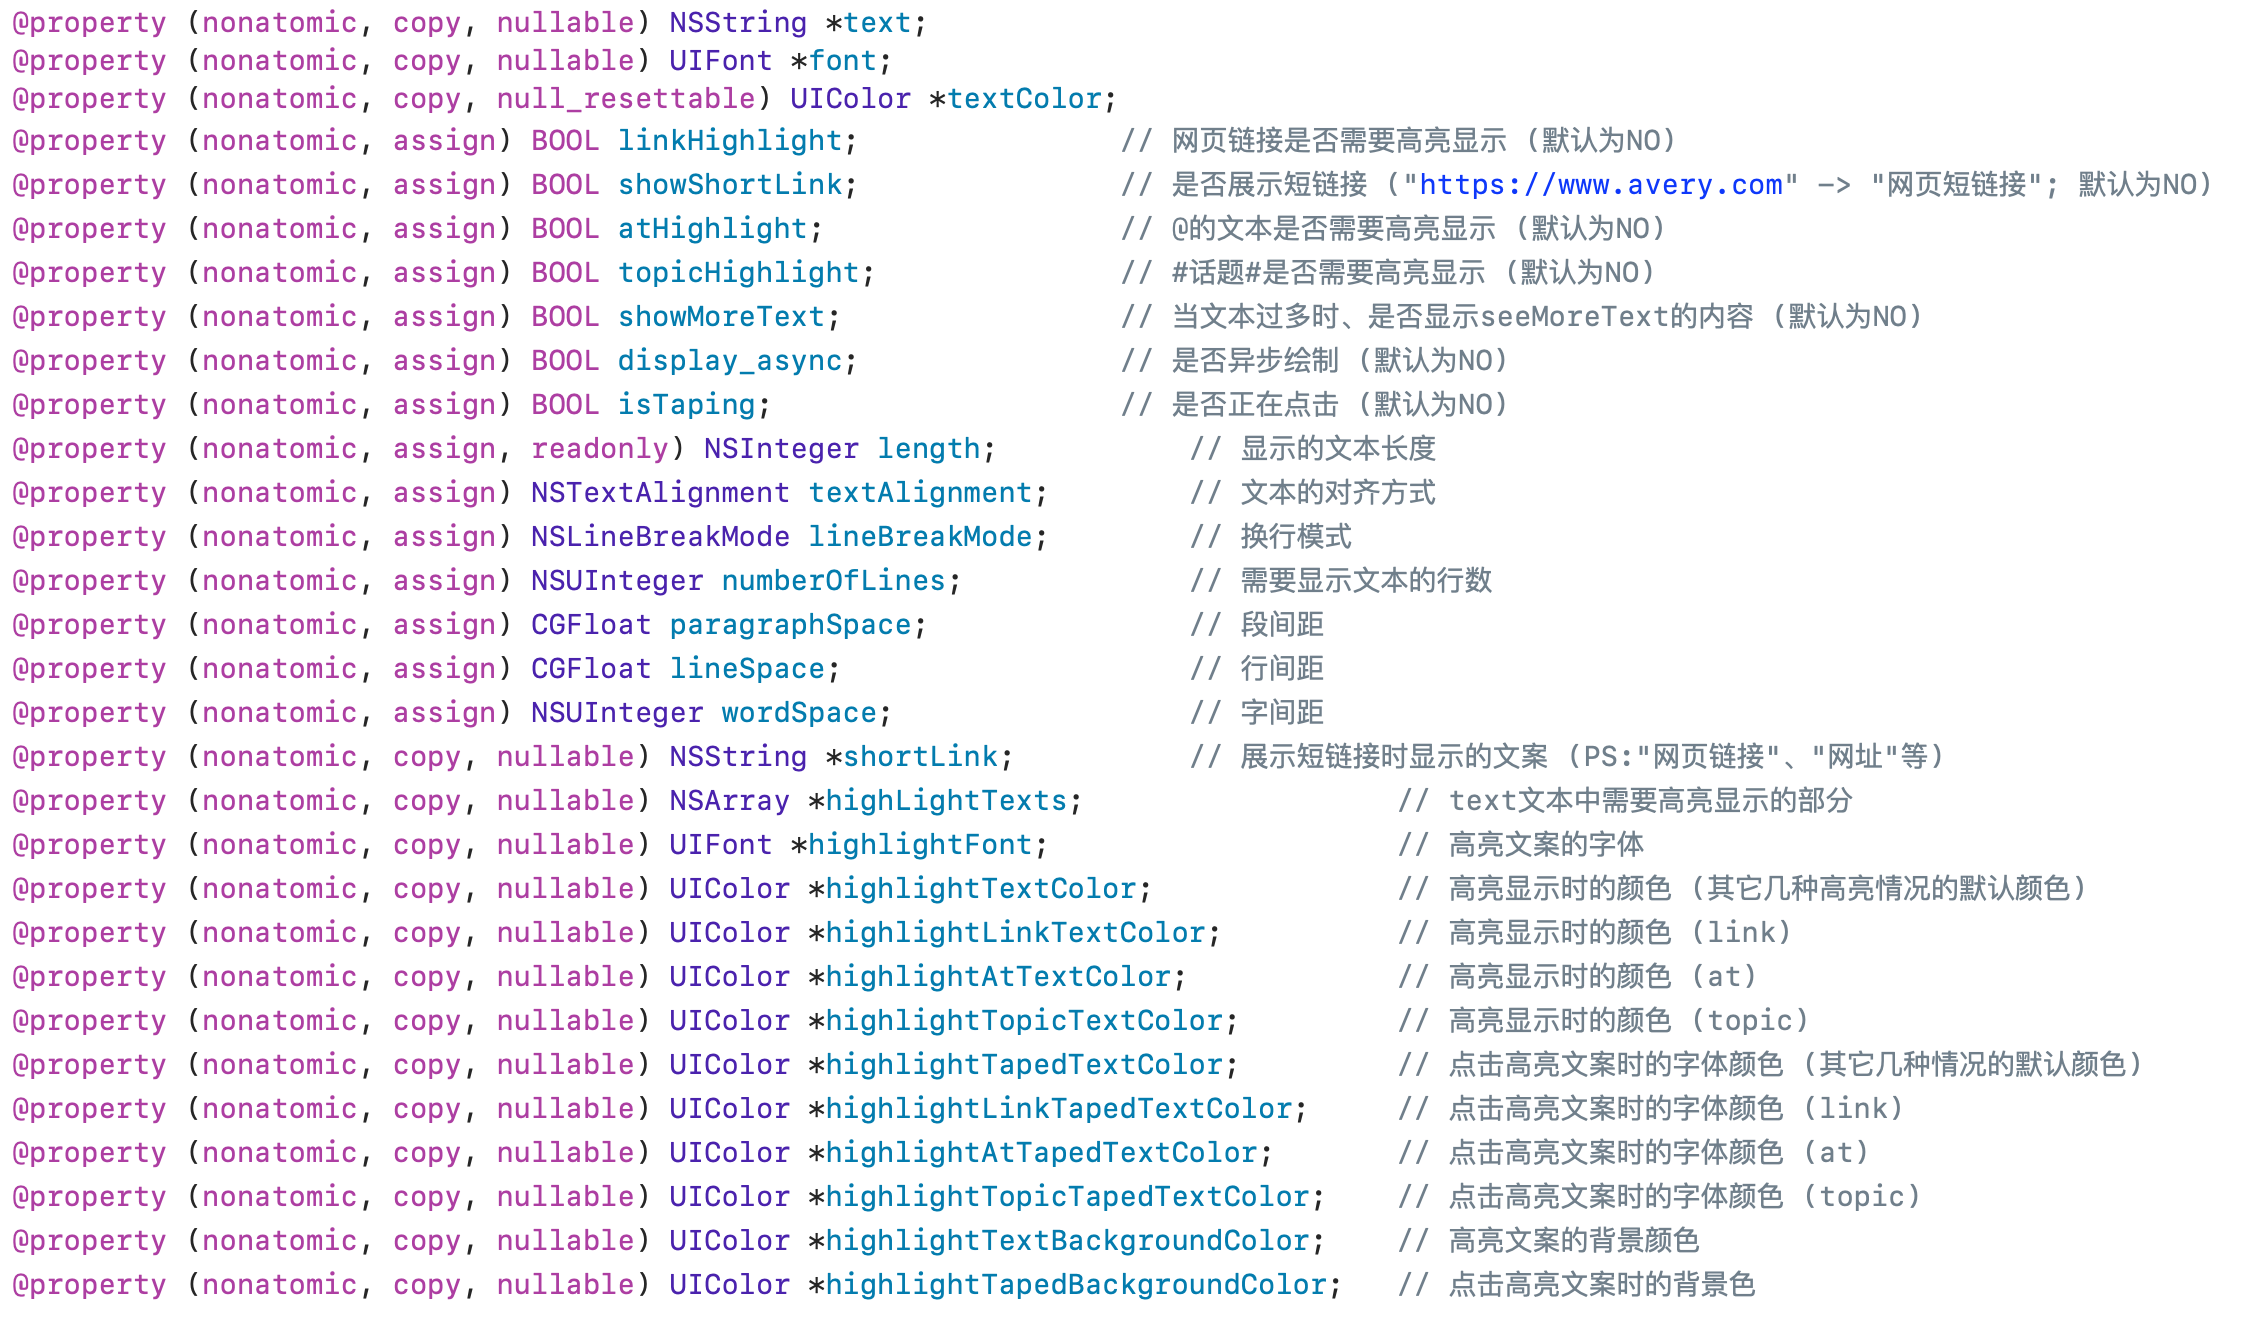
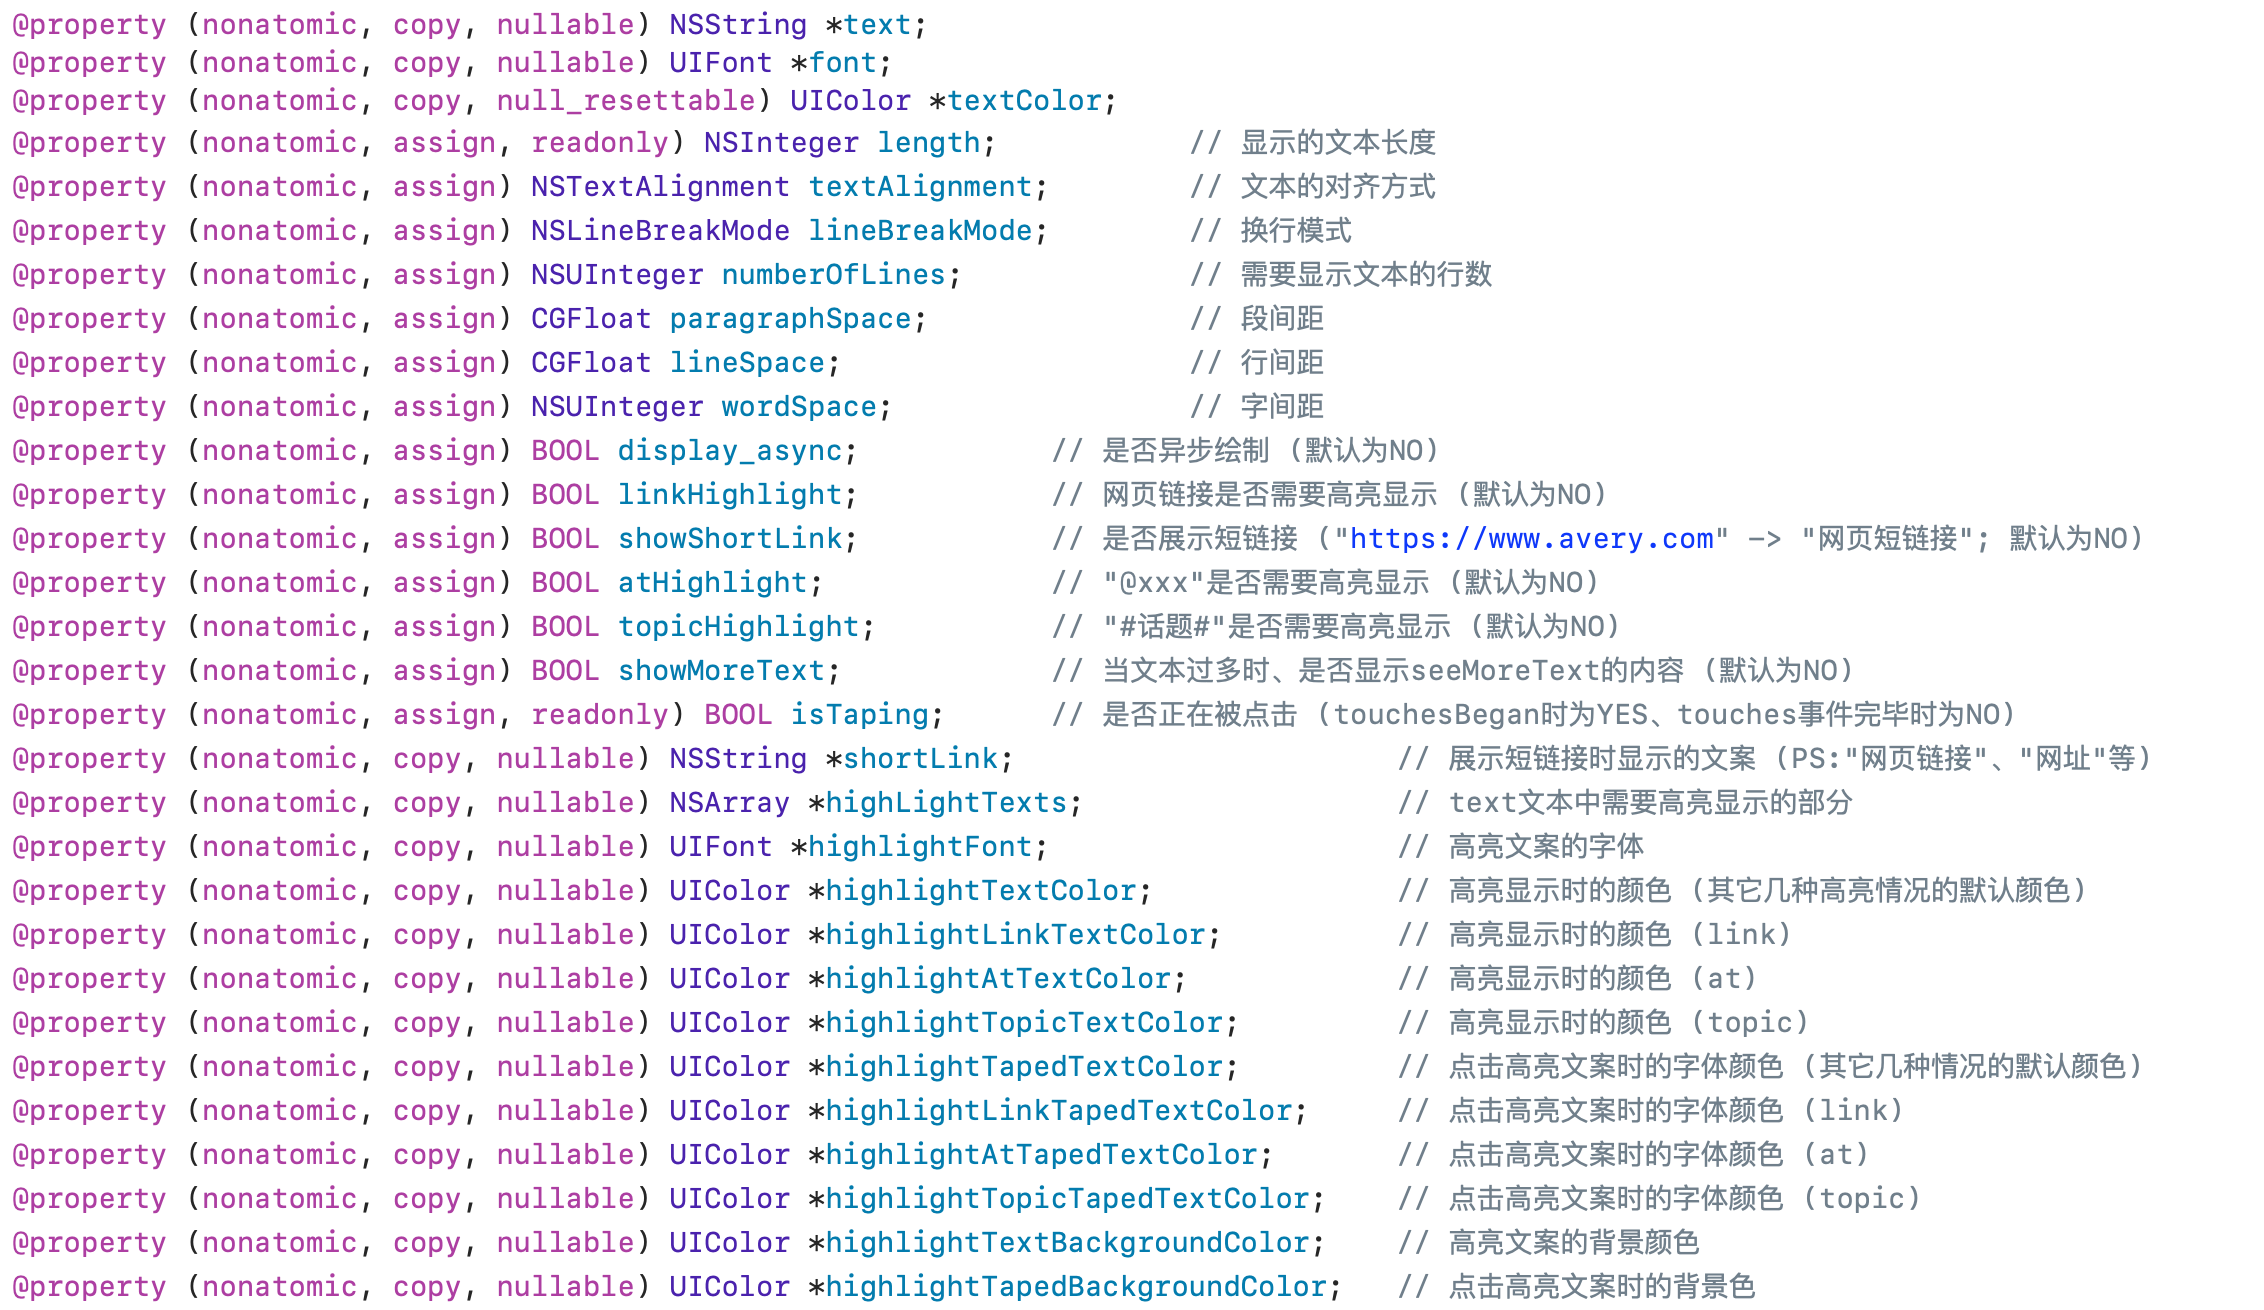
update demo3 png

Changed region(s): [[0.0, 0.0, 0.961, 1.0], [0.837, 0.1221, 0.992, 0.1527]]

diff --git a/CoreText/QAAttributedLabel/QAAttributedLabel.h b/CoreText/QAAttributedLabel/QAAttributedLabel.h
@@ -29,13 +29,6 @@ typedef NS_ENUM(NSUInteger, QAAttributedLabel_TapedStyle) {
 @property (nonatomic, copy, nullable) NSString *text;
 @property (nonatomic, copy, nullable) UIFont *font;
 @property (nonatomic, copy, null_resettable) UIColor *textColor;
-@property (nonatomic, assign) BOOL linkHighlight;               // 网页链接是否需要高亮显示 (默认为NO)
-@property (nonatomic, assign) BOOL showShortLink;               // 是否展示短链接 ("https://www.avery.com" -> "网页短链接"; 默认为NO)
-@property (nonatomic, assign) BOOL atHighlight;                 // @的文本是否需要高亮显示 (默认为NO)
-@property (nonatomic, assign) BOOL topicHighlight;              // #话题#是否需要高亮显示 (默认为NO)
-@property (nonatomic, assign) BOOL showMoreText;                // 当文本过多时、是否显示seeMoreText的内容 (默认为NO)
-@property (nonatomic, assign) BOOL display_async;               // 是否异步绘制 (默认为NO)
-@property (nonatomic, assign) BOOL isTaping;                    // 是否正在点击 (默认为NO)
 @property (nonatomic, assign, readonly) NSInteger length;           // 显示的文本长度
 @property (nonatomic, assign) NSTextAlignment textAlignment;        // 文本的对齐方式
 @property (nonatomic, assign) NSLineBreakMode lineBreakMode;        // 换行模式
@@ -43,7 +36,14 @@ typedef NS_ENUM(NSUInteger, QAAttributedLabel_TapedStyle) {
 @property (nonatomic, assign) CGFloat paragraphSpace;               // 段间距
 @property (nonatomic, assign) CGFloat lineSpace;                    // 行间距
 @property (nonatomic, assign) NSUInteger wordSpace;                 // 字间距
-@property (nonatomic, copy, nullable) NSString *shortLink;          // 展示短链接时显示的文案 (PS:"网页链接"、"网址"等)
+@property (nonatomic, assign) BOOL display_async;           // 是否异步绘制 (默认为NO)
+@property (nonatomic, assign) BOOL linkHighlight;           // 网页链接是否需要高亮显示 (默认为NO)
+@property (nonatomic, assign) BOOL showShortLink;           // 是否展示短链接 ("https://www.avery.com" -> "网页短链接"; 默认为NO)
+@property (nonatomic, assign) BOOL atHighlight;             // "@xxx"是否需要高亮显示 (默认为NO)
+@property (nonatomic, assign) BOOL topicHighlight;          // "#话题#"是否需要高亮显示 (默认为NO)
+@property (nonatomic, assign) BOOL showMoreText;            // 当文本过多时、是否显示seeMoreText的内容 (默认为NO)
+@property (nonatomic, assign, readonly) BOOL isTaping;      // 是否正在被点击 (touchesBegan时为YES、touches事件完毕时为NO)
+@property (nonatomic, copy, nullable) NSString *shortLink;                      // 展示短链接时显示的文案 (PS:"网页链接"、"网址"等)
 @property (nonatomic, copy, nullable) NSArray *highLightTexts;                  // text文本中需要高亮显示的部分
 @property (nonatomic, copy, nullable) UIFont *highlightFont;                    // 高亮文案的字体
 @property (nonatomic, copy, nullable) UIColor *highlightTextColor;              // 高亮显示时的颜色 (其它几种高亮情况的默认颜色)
